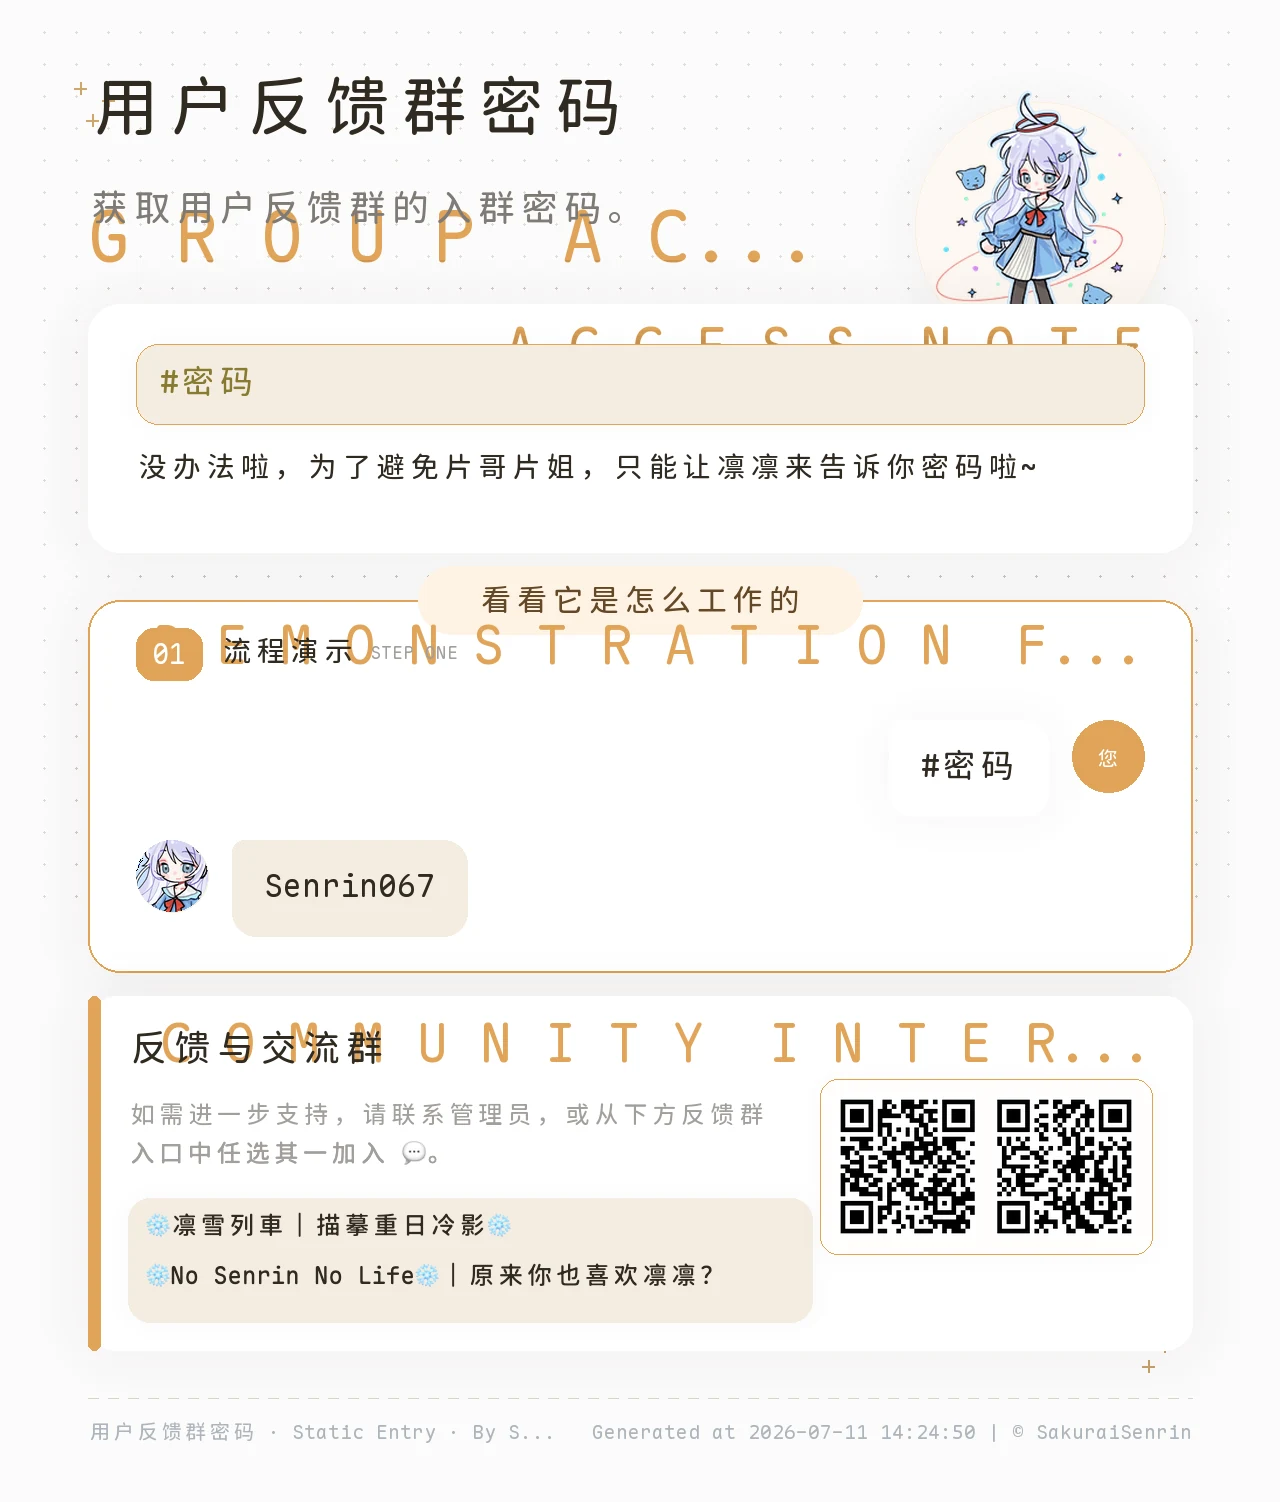
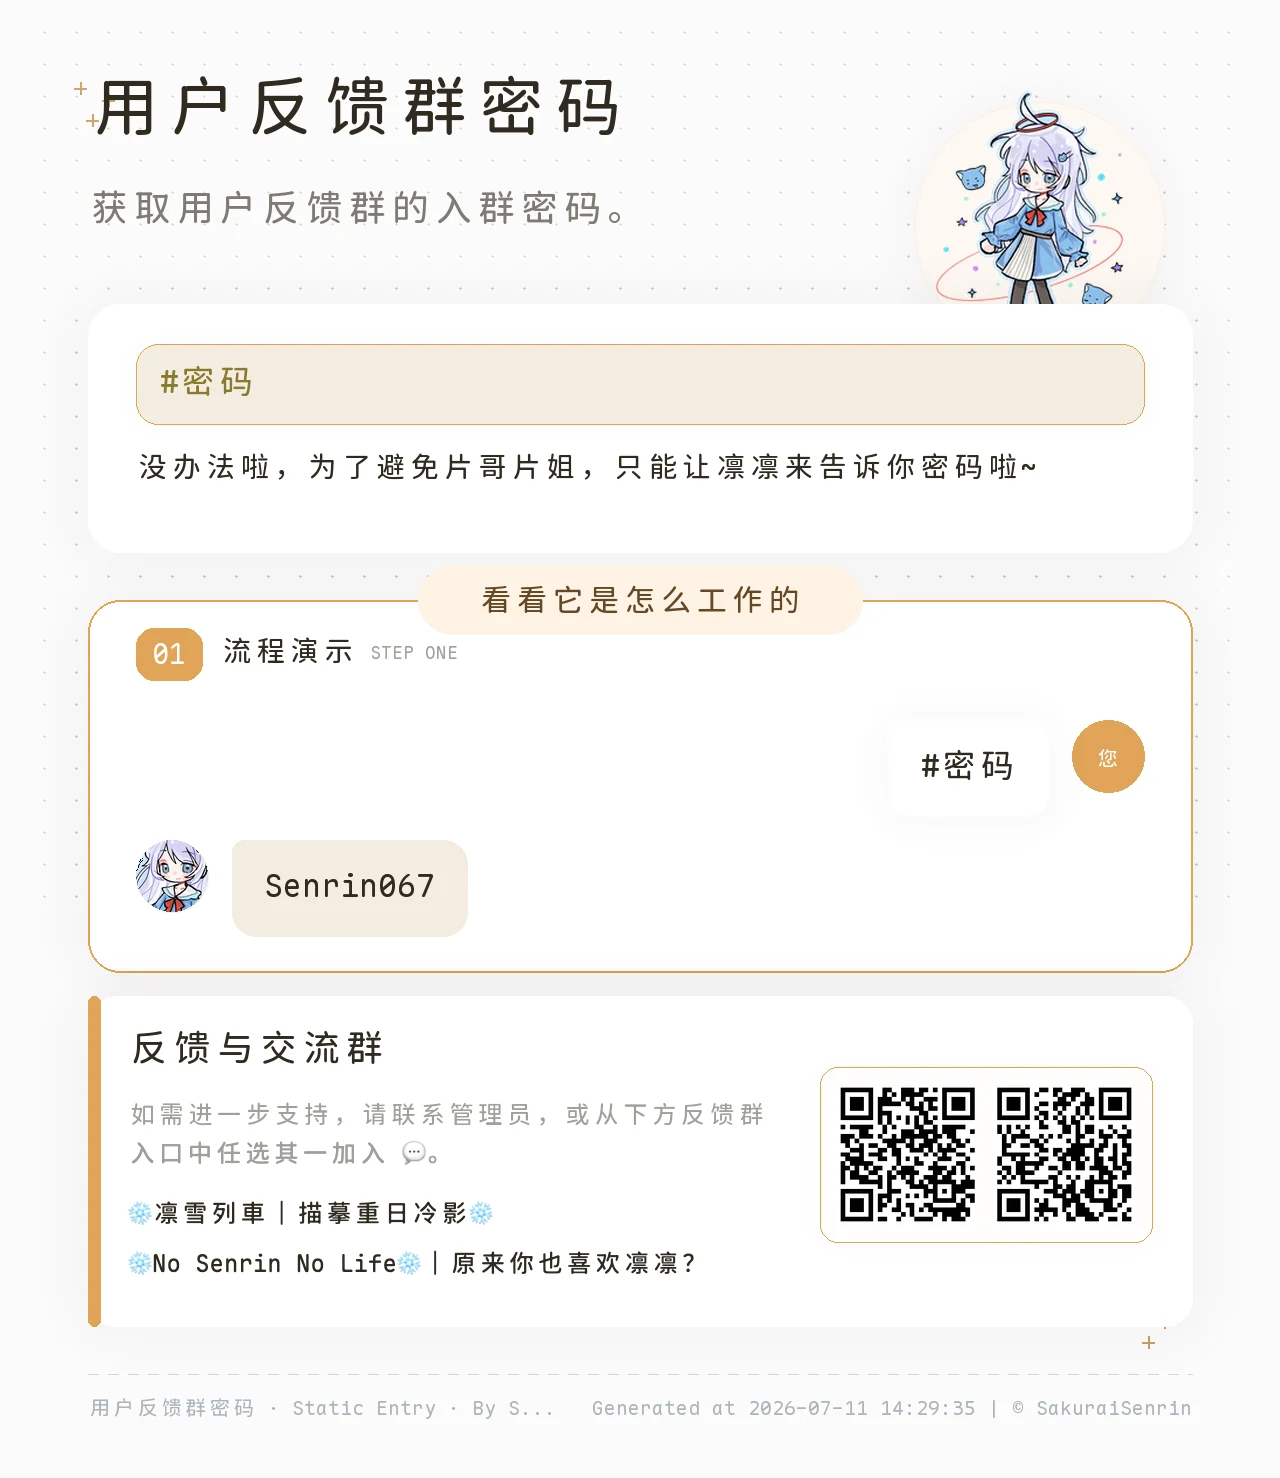
💄 style(plugin-docs): 移除 static entry 英文背景字样

diff --git a/src/lib/plugin_docs/render/progressive.py b/src/lib/plugin_docs/render/progressive.py
@@ -639,18 +639,18 @@ class ProgressiveDisclosureRenderer(DemoImageRenderer):
             + len(header_title_lines) * self._line_height_for_font(self.title_font)
             + self.theme.hero_text_gap
         )
-        self._draw_section_watermark(
-            draw,
-            rect=(
-                side,
-                summary_top + 4,
-                self.WIDTH - side - self.theme.hero_standee_size + 16,
-                hero_bottom,
-            ),
-            text="GROUP ACCESS",
-            font=self.watermark_font,
-            fill=self._rgba(self.theme.accent, self.WATERMARK_ALPHA_LARGE),
-        )
+        # self._draw_section_watermark(
+        #     draw,
+        #     rect=(
+        #         side,
+        #         summary_top + 4,
+        #         self.WIDTH - side - self.theme.hero_standee_size + 16,
+        #         hero_bottom,
+        #     ),
+        #     text="GROUP ACCESS",
+        #     font=self.watermark_font,
+        #     fill=self._rgba(self.theme.accent, self.WATERMARK_ALPHA_LARGE),
+        # )
         self._draw_multiline_text(
             draw,
             x=side,
@@ -680,19 +680,19 @@ class ProgressiveDisclosureRenderer(DemoImageRenderer):
             shadow_blur=self.theme.instruction_shadow_blur,
             fill=self.theme.panel_bg,
         )
-        self._draw_section_watermark(
-            draw,
-            rect=(
-                rect[0] + self.GUIDE_SECTION_PADDING_X,
-                rect[1] + 6,
-                rect[2] - self.GUIDE_SECTION_PADDING_X,
-                rect[1] + 70,
-            ),
-            text="ACCESS NOTE",
-            font=self.watermark_font_small,
-            fill=self._rgba(self.theme.accent, self.WATERMARK_ALPHA),
-            align="right",
-        )
+        # self._draw_section_watermark(
+        #     draw,
+        #     rect=(
+        #         rect[0] + self.GUIDE_SECTION_PADDING_X,
+        #         rect[1] + 6,
+        #         rect[2] - self.GUIDE_SECTION_PADDING_X,
+        #         rect[1] + 70,
+        #     ),
+        #     text="ACCESS NOTE",
+        #     font=self.watermark_font_small,
+        #     fill=self._rgba(self.theme.accent, self.WATERMARK_ALPHA),
+        #     align="right",
+        # )
         command_rect = (
             rect[0] + self.GUIDE_SECTION_PADDING_X,
             rect[1] + self.GUIDE_SECTION_PADDING_Y,
@@ -763,19 +763,19 @@ class ProgressiveDisclosureRenderer(DemoImageRenderer):
                 fill=(255, 243, 228, 191),
                 outline=None,
             )
-            self._draw_section_watermark(
-                draw,
-                rect=(
-                    demo_card_rect[0] + self.GUIDE_SECTION_PADDING_X,
-                    demo_card_rect[1] + 8,
-                    demo_card_rect[2] - self.GUIDE_SECTION_PADDING_X,
-                    demo_card_rect[1] + 78,
-                ),
-                text="DEMONSTRATION FLOW",
-                font=self.watermark_font_small,
-                fill=self._rgba(self.theme.accent, self.WATERMARK_ALPHA),
-                align="right",
-            )
+            # self._draw_section_watermark(
+            #     draw,
+            #     rect=(
+            #         demo_card_rect[0] + self.GUIDE_SECTION_PADDING_X,
+            #         demo_card_rect[1] + 8,
+            #         demo_card_rect[2] - self.GUIDE_SECTION_PADDING_X,
+            #         demo_card_rect[1] + 78,
+            #     ),
+            #     text="DEMONSTRATION FLOW",
+            #     font=self.watermark_font_small,
+            #     fill=self._rgba(self.theme.accent, self.WATERMARK_ALPHA),
+            #     align="right",
+            # )
             badge_rect = (
                 demo_card_rect[0] + self.GUIDE_SECTION_PADDING_X,
                 demo_card_rect[1] + 28,
@@ -2195,7 +2195,7 @@ class ProgressiveDisclosureRenderer(DemoImageRenderer):
             tuple(
                 self._wrap_inline_text(
                     group.title,
-                    max_width=max(160, text_width - 32),
+                    max_width=max(160, text_width),
                     font=self.note_font,
                 )
             )
@@ -2207,7 +2207,7 @@ class ProgressiveDisclosureRenderer(DemoImageRenderer):
             len(lines) * self._line_height_for_font(self.note_font) + 10
             for lines in group_lines
         )
-        group_panel_height = groups_height + 24 if group_lines else 0
+        group_panel_height = groups_height if group_lines else 0
         text_height = title_height + 18 + tip_height + 20 + group_panel_height
         strip_height = max(
             text_height + self.SUPPORT_STRIP_PADDING_Y * 2,
@@ -2266,19 +2266,19 @@ class ProgressiveDisclosureRenderer(DemoImageRenderer):
             radius=12,
             fill=self.theme.accent,
         )
-        self._draw_section_watermark(
-            draw,
-            rect=(
-                layout.rect[0] + self.SUPPORT_STRIP_PADDING_X,
-                layout.rect[1] + 10,
-                layout.rect[2] - self.SUPPORT_STRIP_PADDING_X,
-                layout.rect[1] + 72,
-            ),
-            text="COMMUNITY INTERACTION",
-            font=self.watermark_font_small,
-            fill=self._rgba(self.theme.accent, self.WATERMARK_ALPHA),
-            align="right",
-        )
+        # self._draw_section_watermark(
+        #     draw,
+        #     rect=(
+        #         layout.rect[0] + self.SUPPORT_STRIP_PADDING_X,
+        #         layout.rect[1] + 10,
+        #         layout.rect[2] - self.SUPPORT_STRIP_PADDING_X,
+        #         layout.rect[1] + 72,
+        #     ),
+        #     text="COMMUNITY INTERACTION",
+        #     font=self.watermark_font_small,
+        #     fill=self._rgba(self.theme.accent, self.WATERMARK_ALPHA),
+        #     align="right",
+        # )
         text_x = layout.rect[0] + self.SUPPORT_STRIP_PADDING_X
         text_y = layout.rect[1] + self.SUPPORT_STRIP_PADDING_Y
         self._draw_multiline_text(
@@ -2308,37 +2308,11 @@ class ProgressiveDisclosureRenderer(DemoImageRenderer):
             len(layout.tip_lines) * self._line_height_for_font(self.note_font) + 20
         )
         if layout.group_lines:
-            group_panel_right = (
-                layout.qr_rect[0] - 24
-                if layout.qr_rect is not None
-                else layout.rect[2] - self.SUPPORT_STRIP_PADDING_X
-            )
-            group_panel_height = (
-                sum(
-                    len(lines) * self._line_height_for_font(self.note_font) + 10
-                    for lines in layout.group_lines
-                )
-                + 24
-            )
-            group_panel_rect = (
-                text_x,
-                text_y,
-                group_panel_right,
-                text_y + group_panel_height,
-            )
-            self._draw_soft_subcard(
-                image,
-                draw,
-                group_panel_rect,
-                radius=self.SUBCARD_RADIUS,
-                fill=self.theme.panel_soft_bg,
-                outline=None,
-            )
-            group_text_y = group_panel_rect[1] + 12
+            group_text_y = text_y
             for lines in layout.group_lines:
                 self._draw_multiline_text(
                     draw,
-                    x=group_panel_rect[0] + 18,
+                    x=text_x,
                     y=group_text_y,
                     lines=lines,
                     font=self.note_font,
